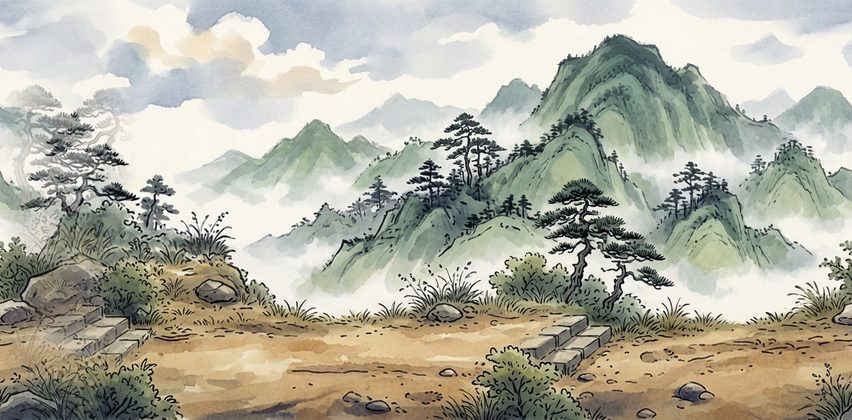
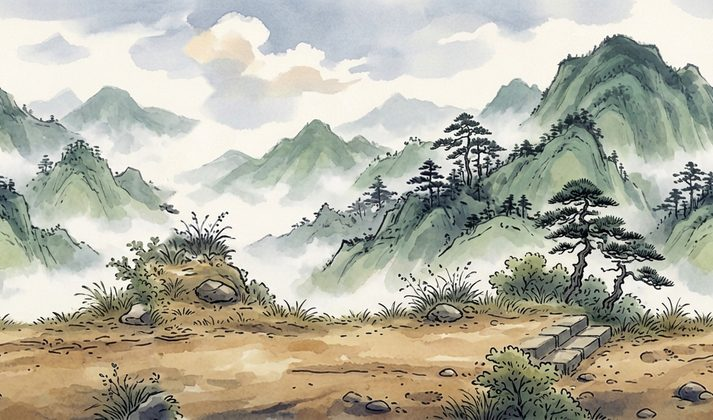
실시간 강호행: 병기별 8컷 걷기 · 발걸음에 맞춘 산길 흐름 · 이음매 없는 산길 배경
- 병기 5종마다 8컷 걷기 시트(닿기·내려앉기·지나가기·솟기 × 좌우) 추가, 1초 주기로 걷는다
- 산길 배경은 한 걸음 주기에 키의 0.7배씩 흘러 발이 미끄러지지 않게 (rAF로 픽셀 단위 이동)
- 돌아오면 대기 시트로 바꿔 숨쉬기
- 산길 그림은 끝과 처음을 최소 차이 경로로 이어 붙여 되풀이 이음매를 없앰
- 매 프레임 움직이는 노드(data-anim)는 다시 그리기(morph)가 style을 건드리지 않게

Claude-Session: https://claude.ai/code/session_014Zip1uwnj8BdcRP6c2R4vj

diff --git a/gangho/js/ui/ui_field.js b/gangho/js/ui/ui_field.js
@@ -13,19 +13,36 @@ Bus.on('tick', () => {
 let lastLiveSig = '';
 function liveSig(t = now()) { return S ? S.expeditions.map(r => r.pend ? `${shownSteps(r, t)}${liveDone(r, t) ? 'd' : ''}${r.claimed ? 'c' : ''}${r.battles.filter(b => b.seen).length}` : '').join(',') + liveSpeed() : ''; }
 const LIVE_SPEED_NAME = { 2: '2배속', 3: '3배속', 4: '4배속', 0: '일괄확인' };
-/* 걷기: 달리기 두 칸을 천천히 번갈아 (다 돌아오면 숨쉬기) */
-let liveStepI = 0;
-setInterval(() => {
-  const h = document.getElementById('liveHero'); if (!h) return;
-  const rest = h.closest('.rest');
-  h.dataset.f = rest ? BREATH[liveStepI++ % BREATH.length] : (liveStepI++ % 2 ? 2 : 1);
-}, 340);
+/* 걷기: 병기별 8컷 걸음(닿기 · 내려앉기 · 지나가기 · 솟기 × 좌우). 산길은 발걸음 폭에 맞춰 흘러 발이 미끄러지지 않는다.
+   다 돌아오면 멈춰 서서 숨쉬기 (대기 시트) */
+const WALK_FRAMES = 8, WALK_MS = 125;                  // 한 걸음 주기 1초
+let liveAnim = { f: 0, last: 0, acc: 0, x: 0, raf: 0, breath: 0 };
+function liveLoop(ts) {
+  liveAnim.raf = requestAnimationFrame(liveLoop);
+  const sc = document.getElementById('liveScene'); if (!sc) { cancelAnimationFrame(liveAnim.raf); liveAnim.raf = 0; return; }
+  const dt = liveAnim.last ? Math.min(100, ts - liveAnim.last) : 16; liveAnim.last = ts;
+  const walker = sc.querySelector('.live-walker'), hero = document.getElementById('liveHero'), strip = sc.querySelector('.live-strip');
+  if (sc.classList.contains('rest') || reduceMotion()) {                      // 쉬는 중: 대기 시트로 가슴만 들썩
+    liveAnim.acc += dt; if (liveAnim.acc > 260) { liveAnim.acc = 0; if (hero) hero.dataset.f = BREATH[liveAnim.breath++ % BREATH.length]; }
+    return;
+  }
+  liveAnim.acc += dt;
+  while (liveAnim.acc >= WALK_MS) { liveAnim.acc -= WALK_MS; liveAnim.f = (liveAnim.f + 1) % WALK_FRAMES; if (walker) walker.querySelector('.walk-spr').style.backgroundPositionX = (liveAnim.f * 100 / (WALK_FRAMES - 1)) + '%'; }
+  // 산길: 한 걸음 주기에 키의 0.7배만큼 (그림 한 장 폭마다 되감는다)
+  if (strip && walker) {
+    const img = strip.firstElementChild, h = walker.offsetHeight || 120, wImg = img && img.offsetWidth;
+    liveAnim.x += dt * (h * 0.7) / (WALK_MS * WALK_FRAMES);
+    if (wImg) { liveAnim.x %= wImg; strip.style.transform = `translate3d(${-liveAnim.x.toFixed(1)}px,0,0)`; }
+  }
+}
 function liveScene(r) {
   const zid = (r && r.zone) || S.expedition.zone || 'cheongpung', w = weaponType();
-  const img = `<img src="assets/art/travel/${zid}.jpg" alt="">`;
+  const img = () => `<img src="assets/art/travel/${zid}.jpg" alt="">`;   // 끝과 처음이 이어지게 다듬은 그림 (이음매 없이 되풀이)
+  if (!liveAnim.raf) liveAnim.raf = requestAnimationFrame(liveLoop);
   return `<div class="live-scene ${liveDone(r) ? 'rest' : ''}" id="liveScene">
-    <div class="live-strip">${img}${img}${img}</div>
-    <div class="sp-fighter sp-hero live-hero" id="liveHero" data-f="1"><i class="sp-shadow"></i><div class="sp-spr" style="background-image:url('${SPRITE_SRC.hero(w)}')"></div></div>
+    <div class="live-strip" data-anim>${img()}${img()}${img()}</div>
+    <div class="sp-fighter live-walker" id="liveWalker_${w}"><i class="sp-shadow"></i><div class="walk-spr" data-anim style="background-image:url('assets/art/sprites/walk_${w}.webp')"></div></div>
+    <div class="sp-fighter sp-hero live-hero" id="liveHero" data-f="0"><i class="sp-shadow"></i><div class="sp-spr" style="background-image:url('${SPRITE_SRC.hero(w)}')"></div></div>
     <span class="live-where">${ZONES[zid].name}</span>
   </div>`;
 }

diff --git a/gangho/css/art.css b/gangho/css/art.css
@@ -453,13 +453,9 @@
 .live-wrap { display: grid; grid-template-columns: minmax(0, 1.25fr) minmax(0, 1fr); gap: 12px; align-items: start; }
 @media (max-width: 760px) { .live-wrap { grid-template-columns: 1fr; } }
 .live-scene { width: 100%; position: relative; overflow: hidden; border-radius: 8px; aspect-ratio: 16 / 8; min-height: 180px; background: #d8cfbb; box-shadow: inset 0 0 30px rgba(0, 0, 0, .35); }
-.live-strip { position: absolute; inset: 0 auto 0 0; display: flex; height: 100%; animation: liveScroll 48s linear infinite; }
+.live-strip { position: absolute; inset: 0 auto 0 0; display: flex; height: 100%; will-change: transform; }
 .live-strip img { height: 100%; width: auto; flex: none; display: block; }
-@keyframes liveScroll { from { transform: translateX(0); } to { transform: translateX(-33.333%); } }
-.live-scene.rest .live-strip { animation-play-state: paused; }
 .live-hero.sp-hero { left: 22%; bottom: 7%; width: 44%; transition: none; }
-.live-scene:not(.rest) .live-hero { animation: liveBob .68s ease-in-out infinite; }
-@keyframes liveBob { 0%,100% { transform: translateY(0); } 50% { transform: translateY(-1.5%); } }
 .live-where { position: absolute; right: 8px; top: 6px; z-index: 3; font: 700 13px/1.4 serif; color: #fff; text-shadow: 0 1px 3px #000; letter-spacing: .1em; }
 .live-side { display: flex; flex-direction: column; gap: 6px; min-width: 0; }
 .live-speed { flex-wrap: wrap; }
@@ -488,3 +484,9 @@
 @keyframes sheetIn { from { opacity: 0; transform: translateY(6px) scale(.985); } to { opacity: 1; transform: none; } }
 /* 탭 버튼 · 하위 탭 전환은 색만 부드럽게 */
 .tab, .subtab { transition: color .15s, background-color .15s, border-color .15s; }
+
+/* 걷는 제자 (8컷 걸음 시트, 칸 400×380) · 쉬면 대기 시트로 바뀐다 */
+.live-walker { left: 30%; bottom: 7%; width: 26%; aspect-ratio: 400 / 380; transition: none; }
+.walk-spr { width: 100%; height: 100%; background: 0 0 / 800% 100% no-repeat; filter: saturate(.82) contrast(.93) sepia(.1) brightness(1.03); }
+.live-walker .sp-shadow { width: 42%; }
+.live-scene.rest .live-walker, .live-scene:not(.rest) .live-hero { display: none; }

diff --git a/gangho/js/ui/ui_tabs.js b/gangho/js/ui/ui_tabs.js
@@ -16,8 +16,9 @@ Bus.on('tick', () => renderHeader());
 const MORPH_KEEP = new Set(['data-wired']);            // 그린 뒤 스크립트가 붙이는 속성은 지우지 않는다
 const morphKey = n => n.nodeType === 1 ? (n.id || n.getAttribute('data-key') || null) : null;
 function morphAttrs(a, b) {
-  for (const { name } of [...a.attributes]) if (!b.hasAttribute(name) && !MORPH_KEEP.has(name) && !(name === 'open' && a.tagName === 'DETAILS')) a.removeAttribute(name);
-  for (const { name, value } of b.attributes) if (a.getAttribute(name) !== value) a.setAttribute(name, value);
+  const anim = a.hasAttribute('data-anim');                // 스크립트가 매 프레임 움직이는 노드: style은 건드리지 않는다
+  for (const { name } of [...a.attributes]) if (anim && name === 'style') continue; else if (!b.hasAttribute(name) && !MORPH_KEEP.has(name) && !(name === 'open' && a.tagName === 'DETAILS')) a.removeAttribute(name);
+  for (const { name, value } of b.attributes) if (!(anim && name === 'style') && a.getAttribute(name) !== value) a.setAttribute(name, value);
   if (/^(INPUT|TEXTAREA|SELECT)$/.test(a.tagName) && document.activeElement !== a) {
     if (a.type === 'checkbox' || a.type === 'radio') a.checked = b.checked; else if (a.value !== b.value) a.value = b.value;
   }
